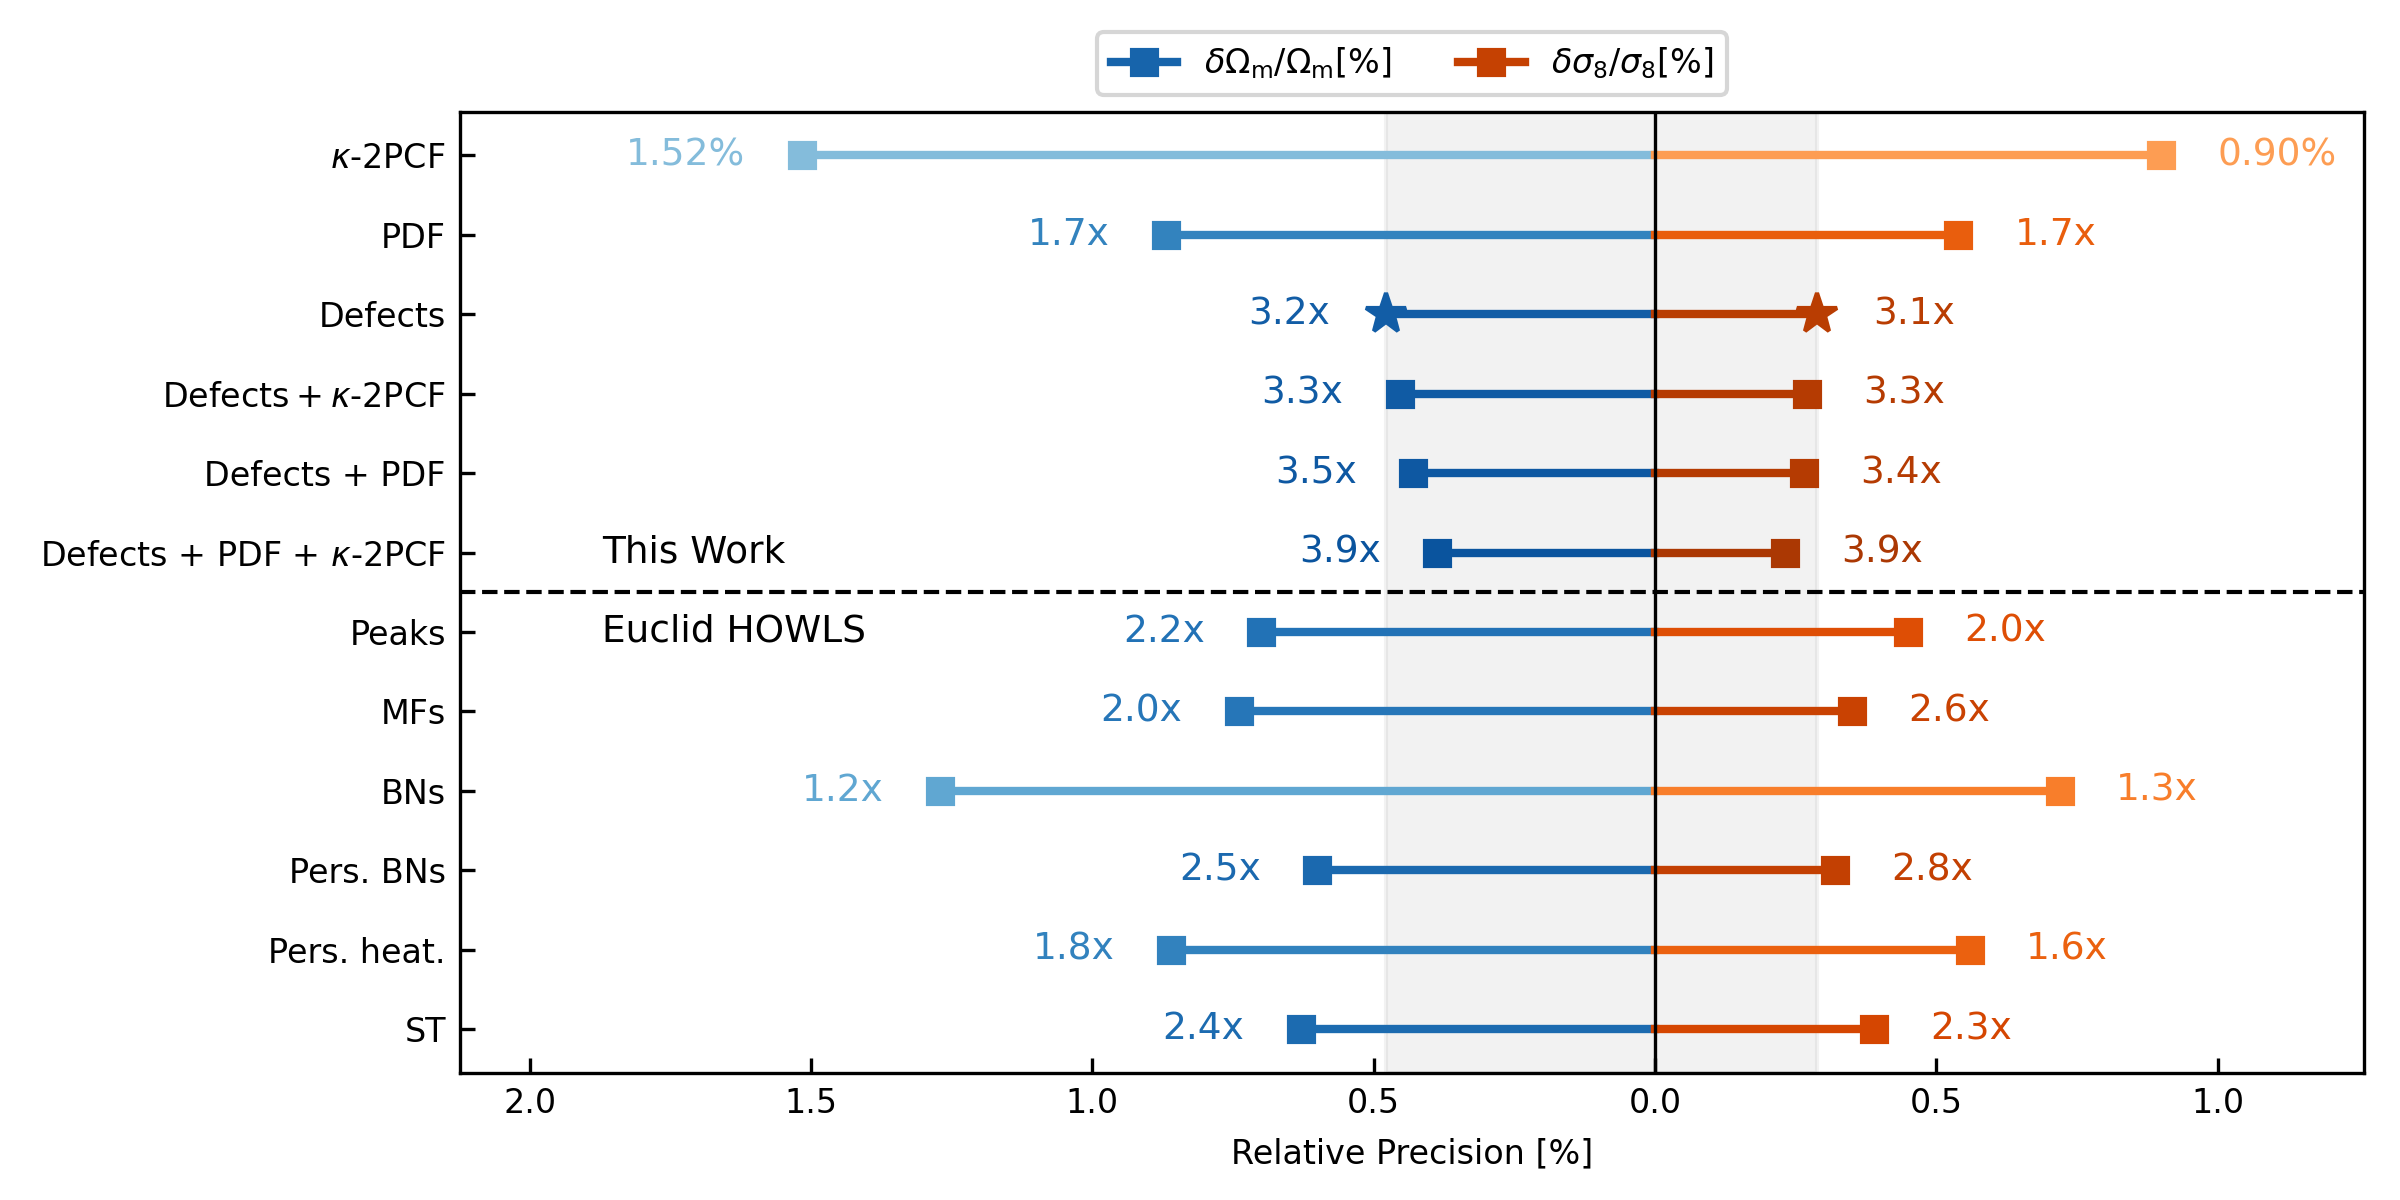
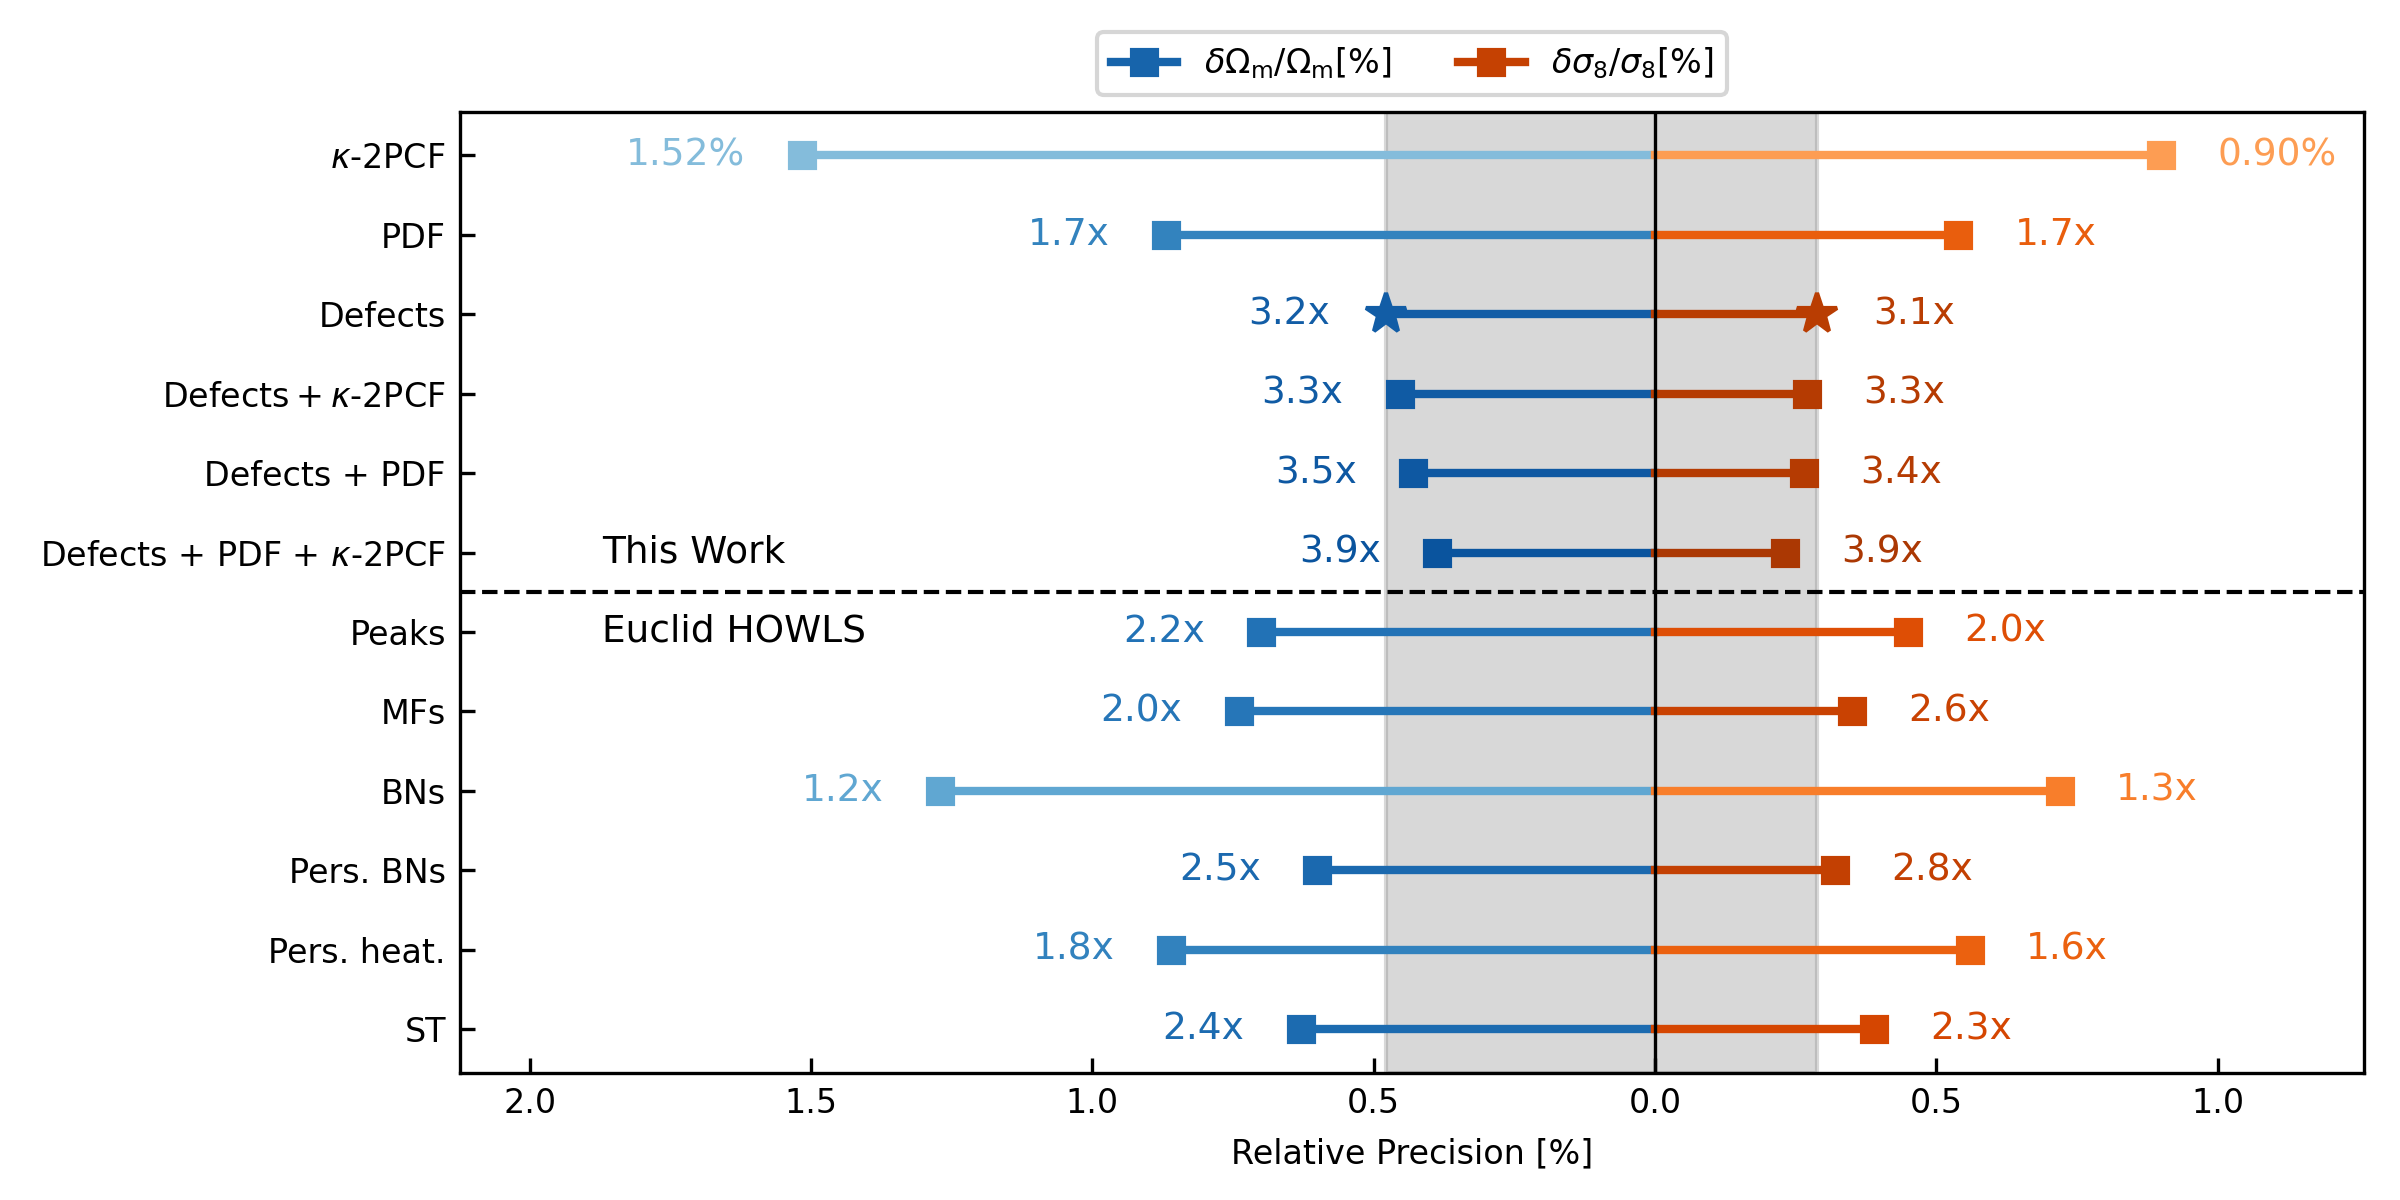
Increase transparency of shaded region in defect results plot and update output images

Changed region(s): [[0.5625, 0.0925, 0.7812, 0.8942]]

diff --git a/6_HOWLS_Fisher.py b/6_HOWLS_Fisher.py
@@ -860,7 +860,7 @@ sep_index = len(our_data) - 0.5
 ax.axhline(y=sep_index, color='black', linestyle='--', linewidth=1)
 
 # defects results shaded region
-ax.axvspan(-vals_om[2], vals_s8[2], color='gray', alpha=0.1)
+ax.axvspan(-vals_om[2], vals_s8[2], color='gray', alpha=0.3)
 
 ax.set_xlim(-max(vals_om)*1.4, max(vals_s8)*1.4)
 
